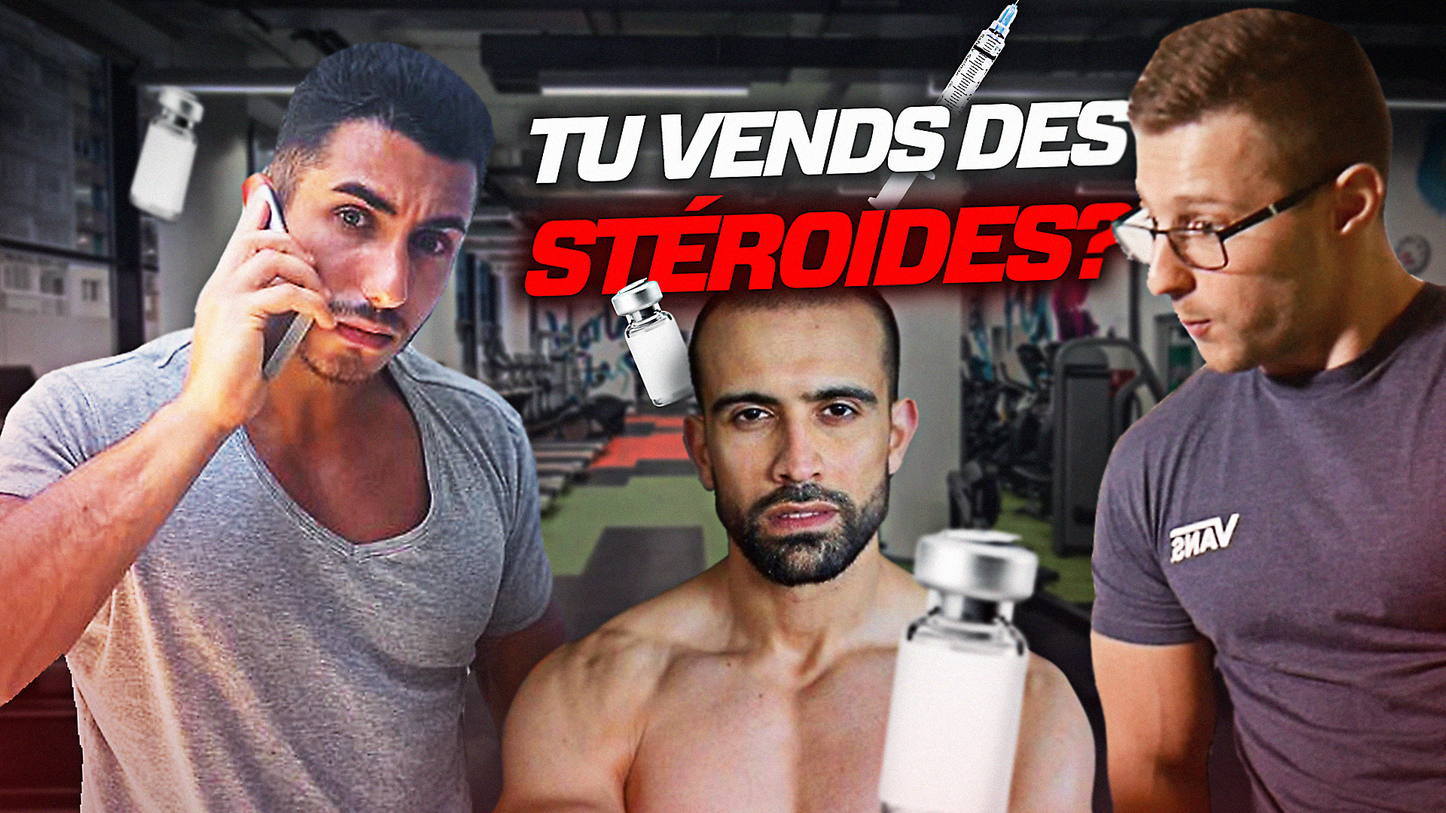
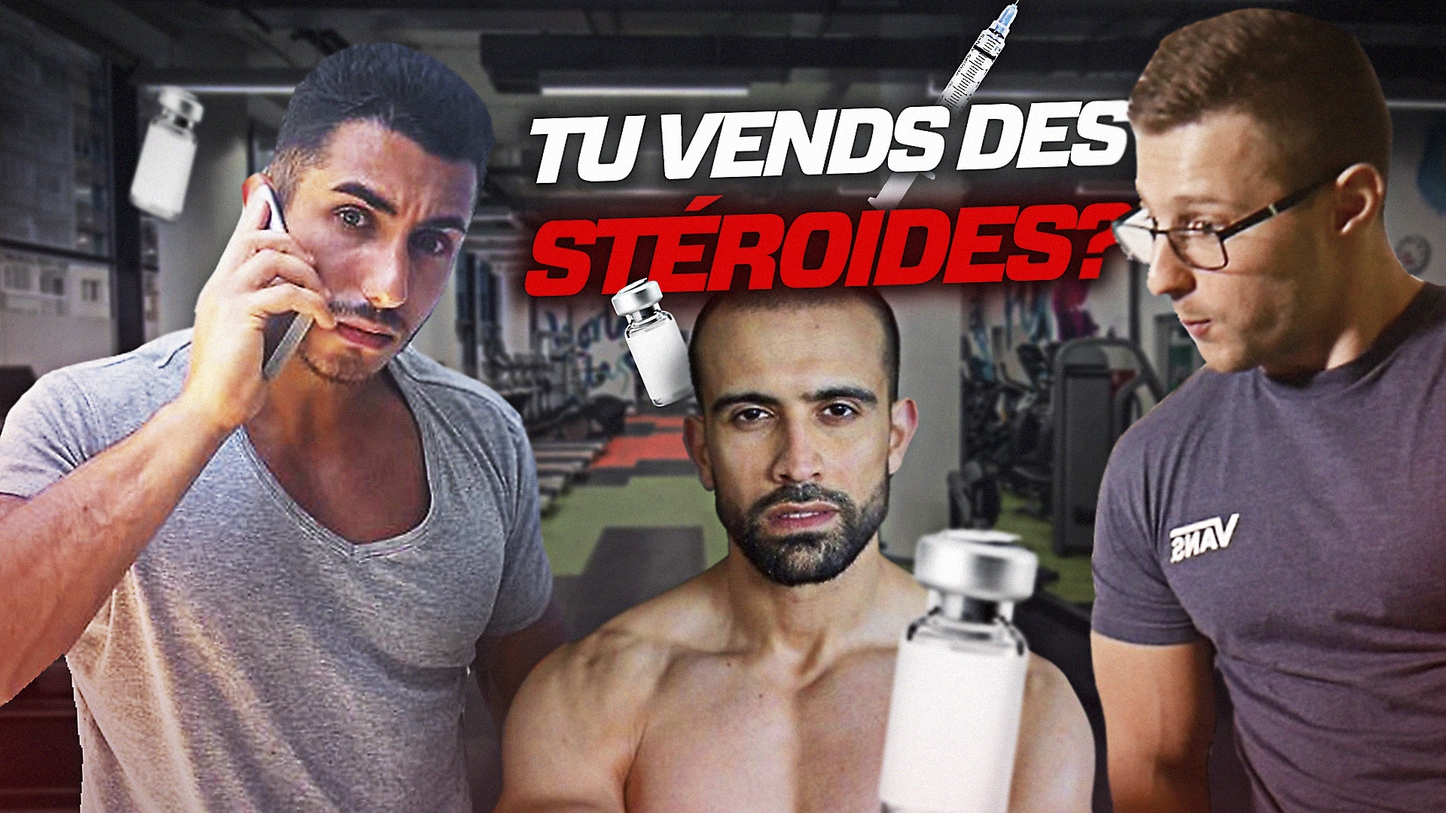
Image optimisation

diff --git a/index.md b/index.md
@@ -2,7 +2,7 @@
 banniere:
   titre: FleauxTV
   soustitre: "Graphiste, motion designer et monteur vidéo. "
-  banniere: /uploads/banner.png
+  banniere: /uploads/banner.jpg
 miniatures:
   titre: GRAPHIC DESIGN
   description: Je réalises des éléments graphiques divers tels que des miniatures
